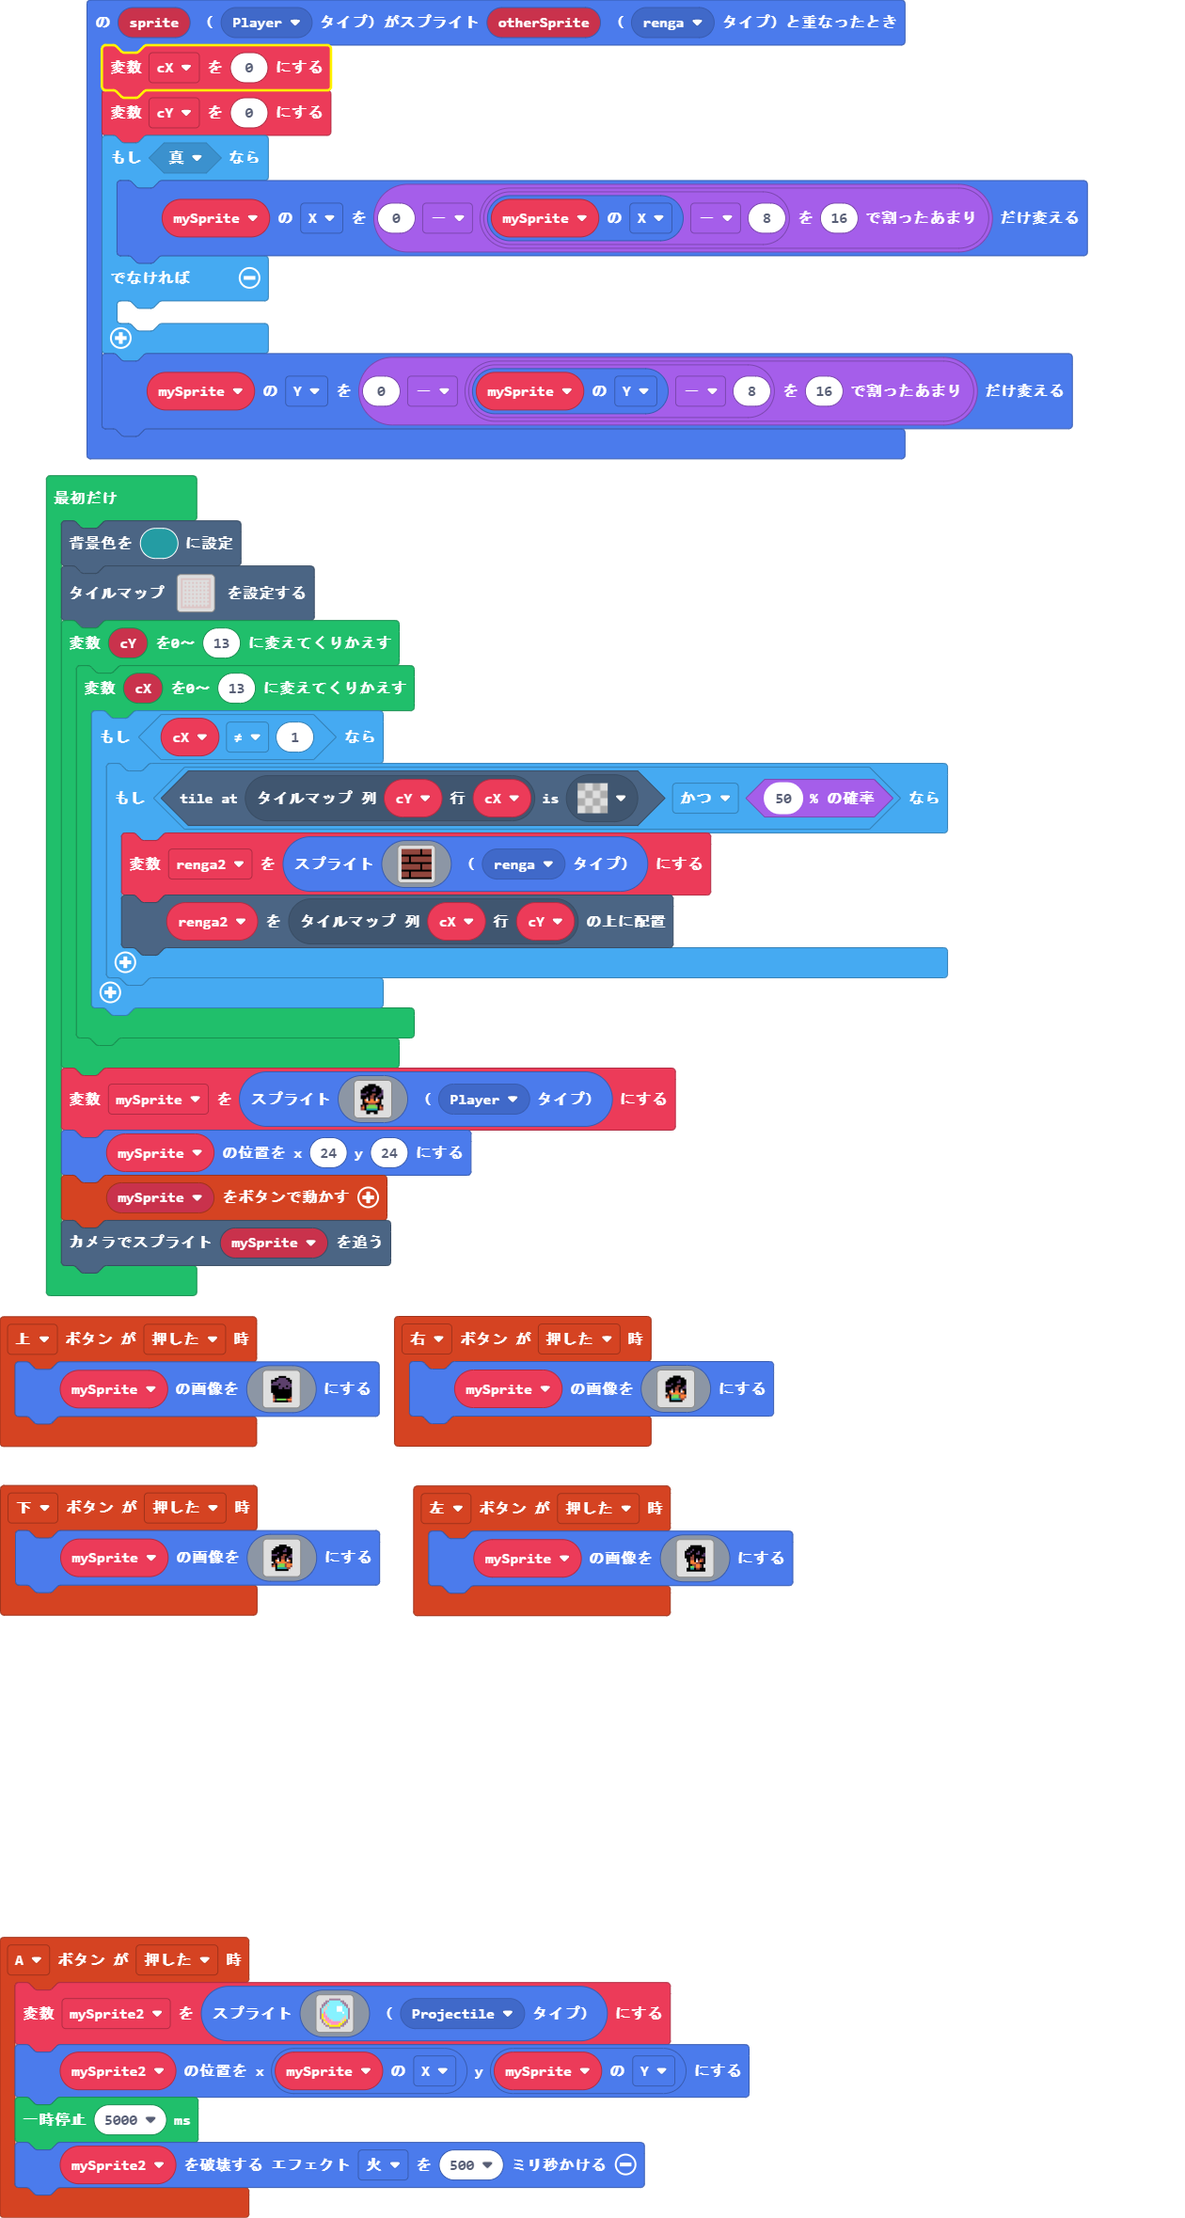
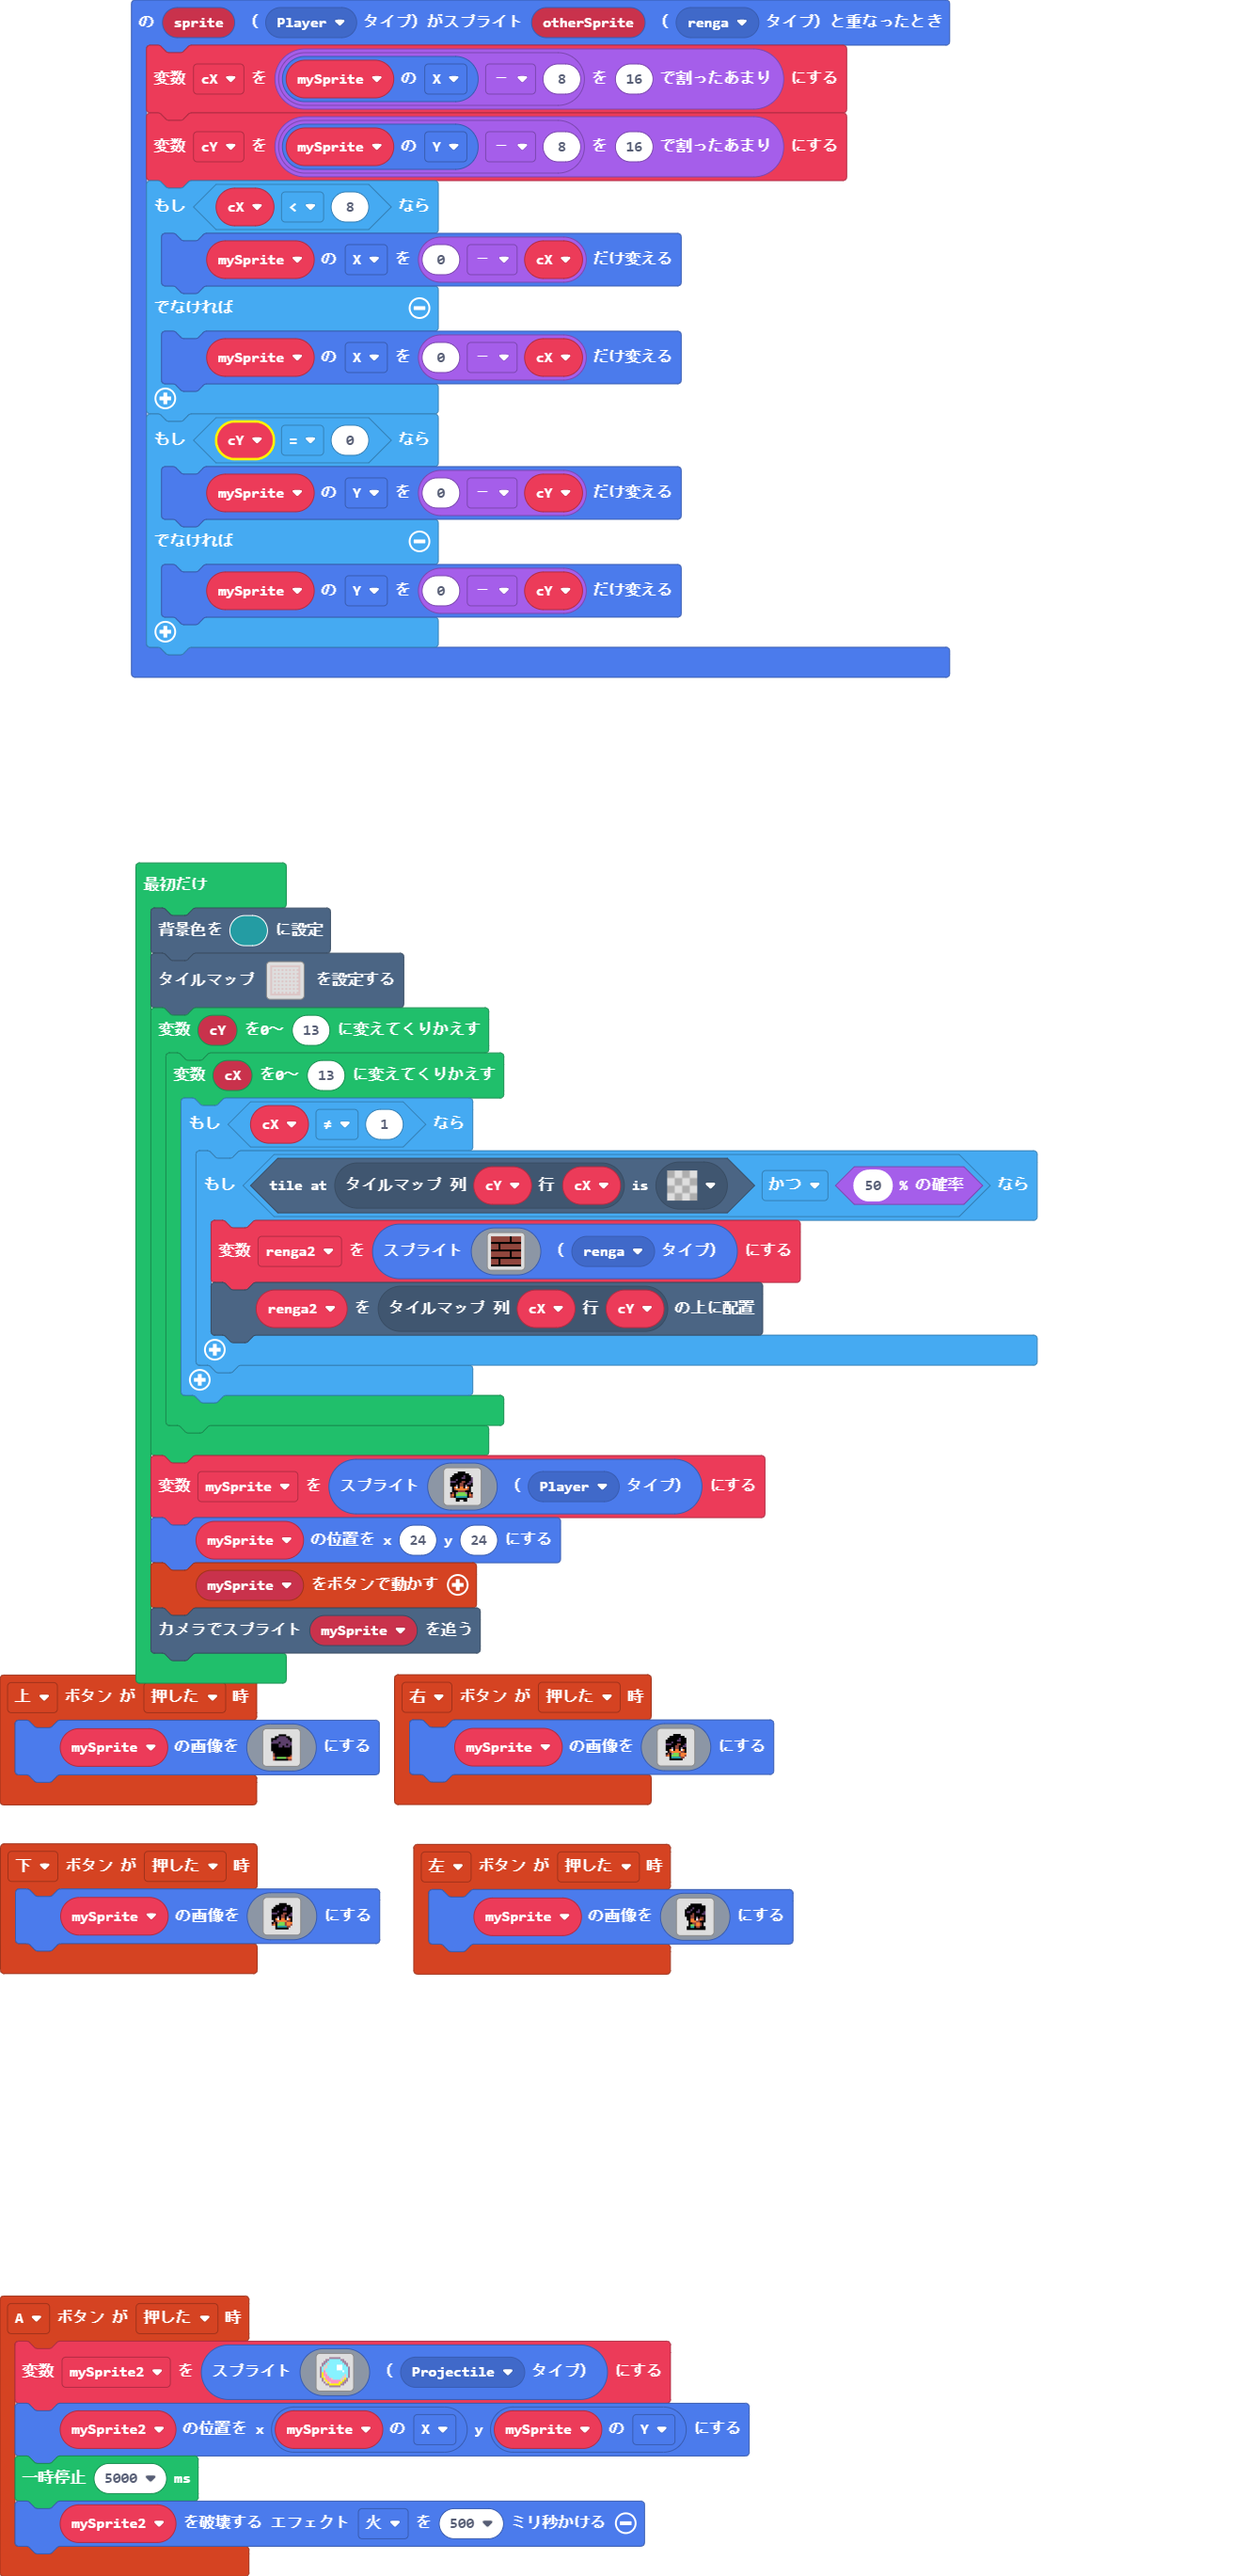
更新 main.blocks, main.ts

diff --git a/main.ts b/main.ts
@@ -82,14 +82,18 @@ controller.up.onEvent(ControllerButtonEvent.Pressed, function () {
         `)
 })
 sprites.onOverlap(SpriteKind.Player, SpriteKind.renga, function (sprite, otherSprite) {
-    cX = 0
-    cY = 0
-    if (true) {
-        mySprite.x += 0 - (mySprite.x - 8) % 16
+    cX = (mySprite.x - 8) % 16
+    cY = (mySprite.y - 8) % 16
+    if (cX < 8) {
+        mySprite.x += 0 - cX
     } else {
-    	
+        mySprite.x += 0 - cX
     }
-    mySprite.y += 0 - (mySprite.y - 8) % 16
+    if (cY == 0) {
+        mySprite.y += 0 - cY
+    } else {
+        mySprite.y += 0 - cY
+    }
 })
 controller.A.onEvent(ControllerButtonEvent.Pressed, function () {
     mySprite2 = sprites.create(img`
